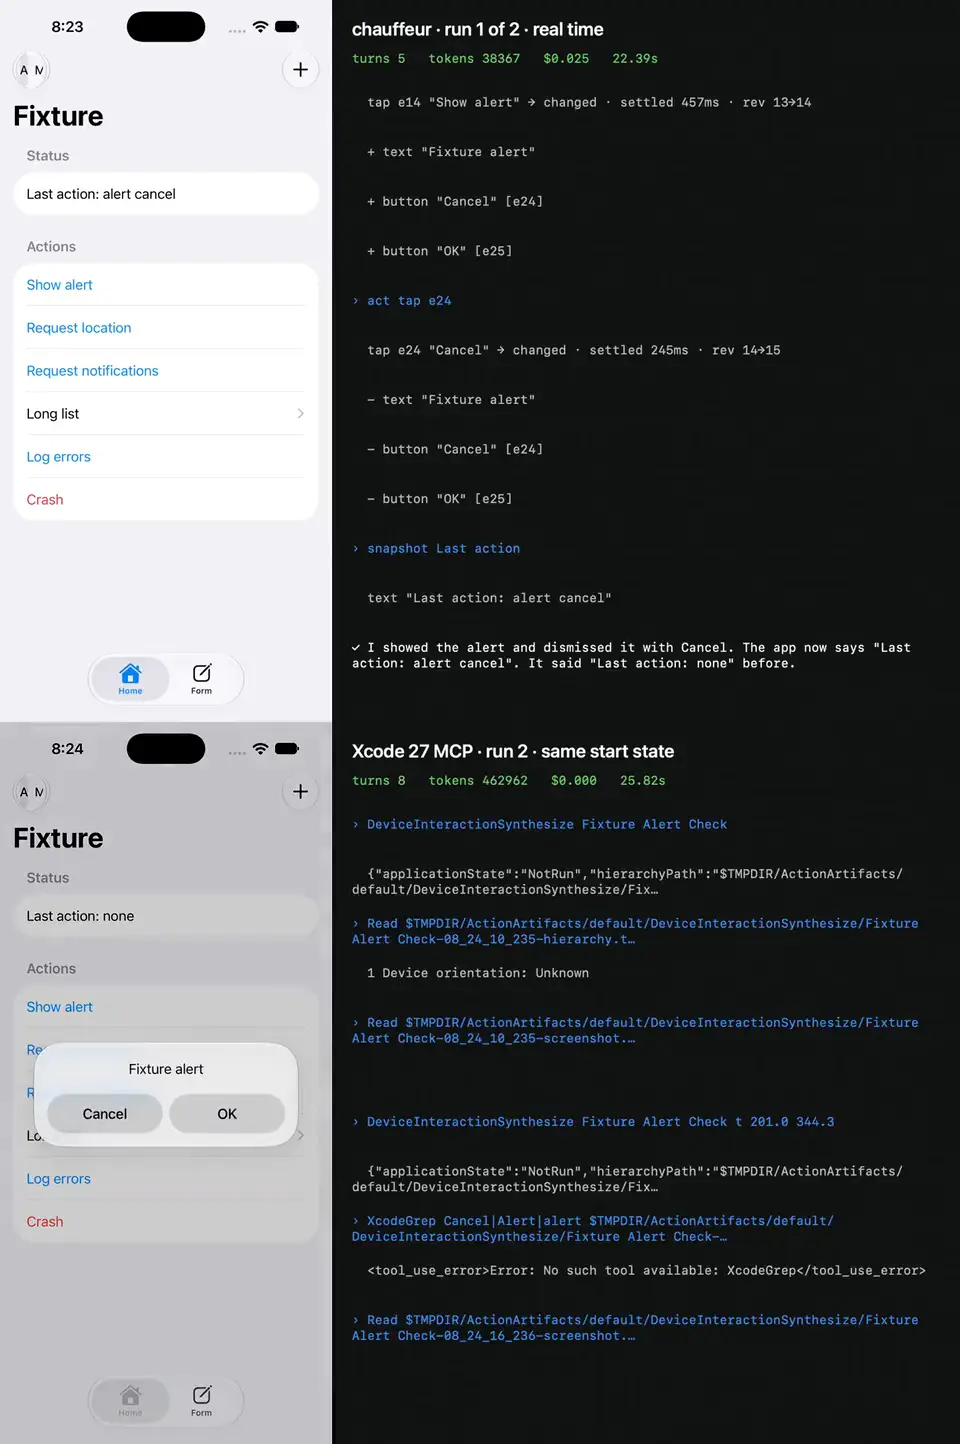
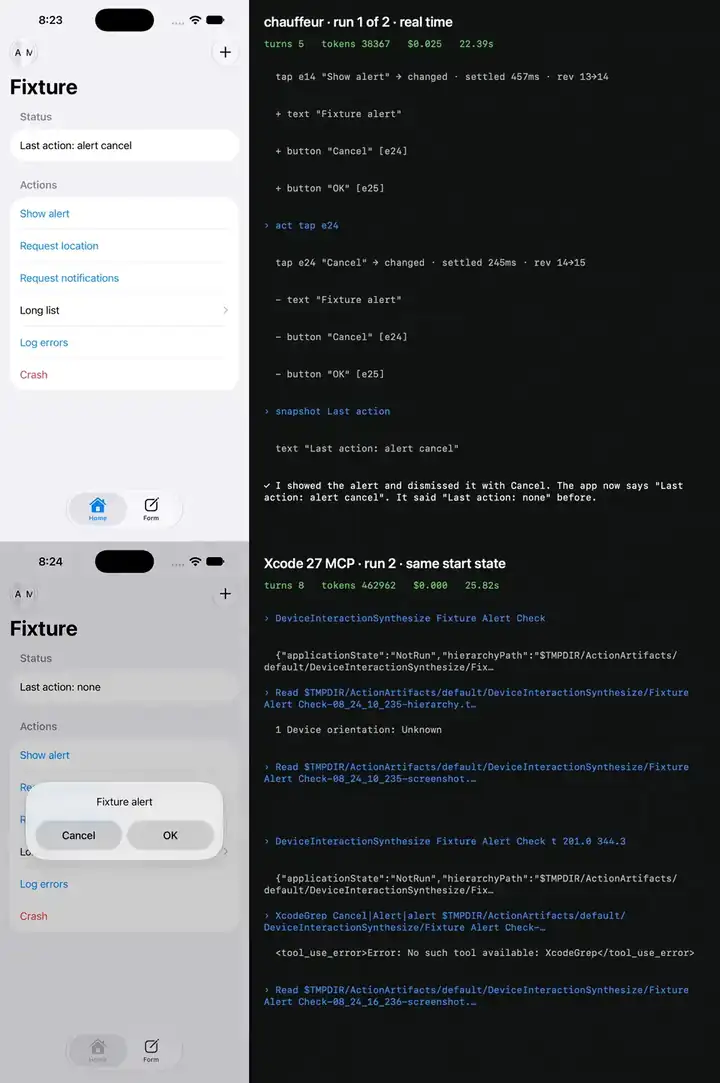
perf: lighter chauffeur video posters so they don't crowd the LCP
Claude-Session: https://claude.ai/code/session_01Bbe6pam2qewCRzNRjQgWub

diff --git a/tests/unit/media.test.ts b/tests/unit/media.test.ts
@@ -52,3 +52,15 @@ describe('first slide (the LCP on a phone)', () => {
 		});
 	}
 });
+
+describe('video posters', () => {
+	// posters always download with the page (they cannot be lazy or low priority), so they compete with the LCP
+	for (const p of projects) {
+		for (const s of p.slides) {
+			if (s.kind !== 'video') continue;
+			it(`${p.slug}: ${s.poster} ≤ 40 KB`, () => {
+				expect(statSync(file(s.poster)).size).toBeLessThanOrEqual(40 * 1024);
+			});
+		}
+	}
+});
